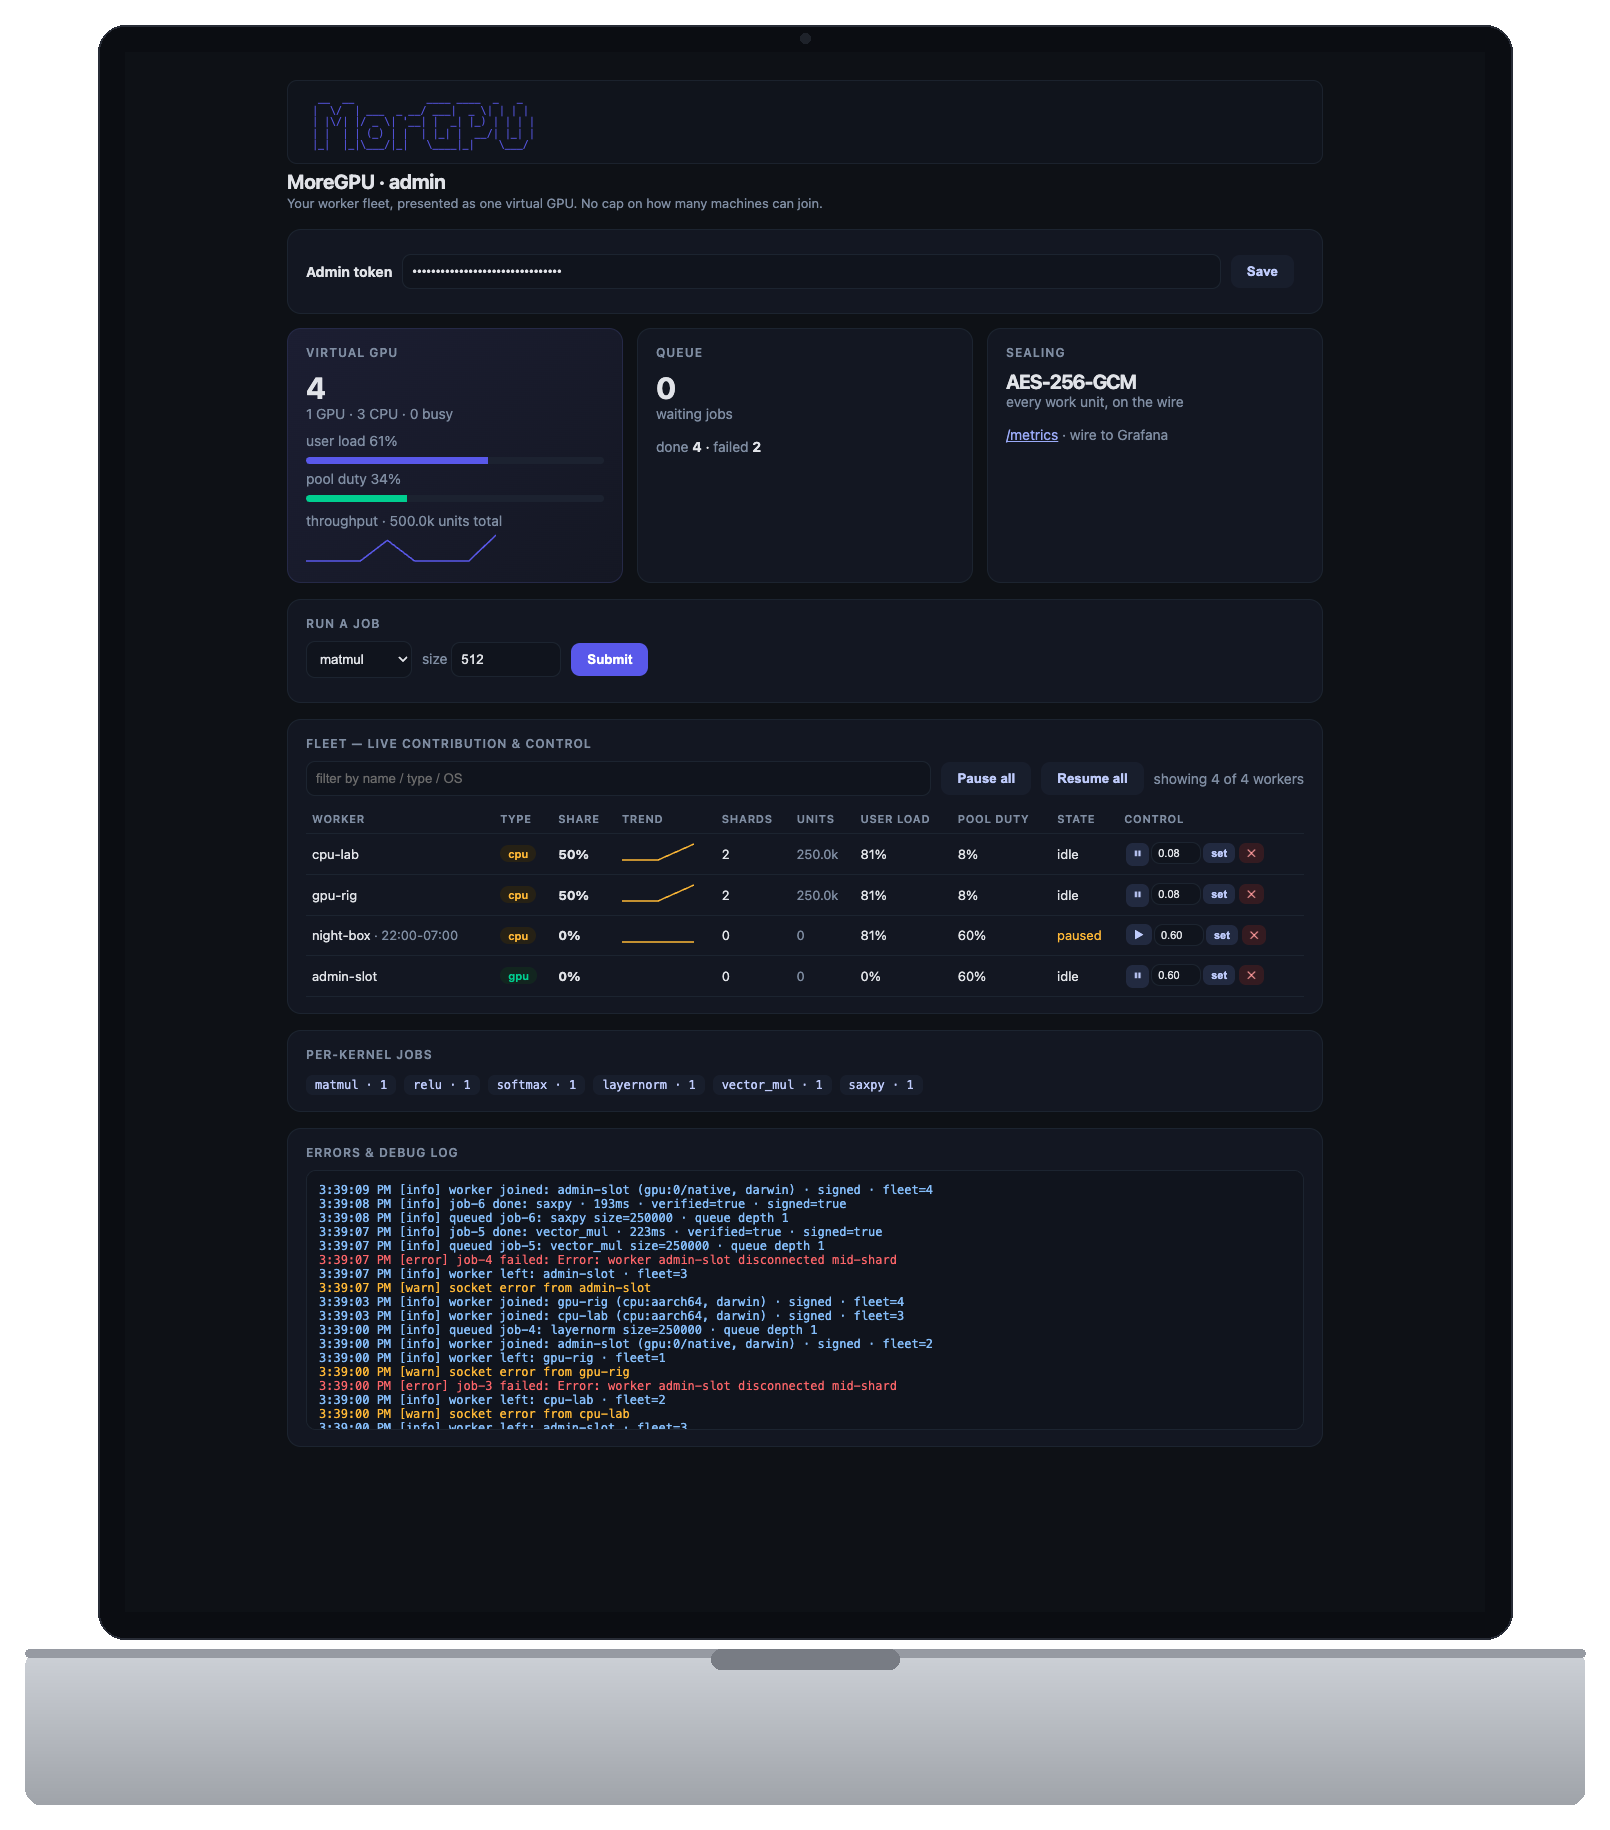
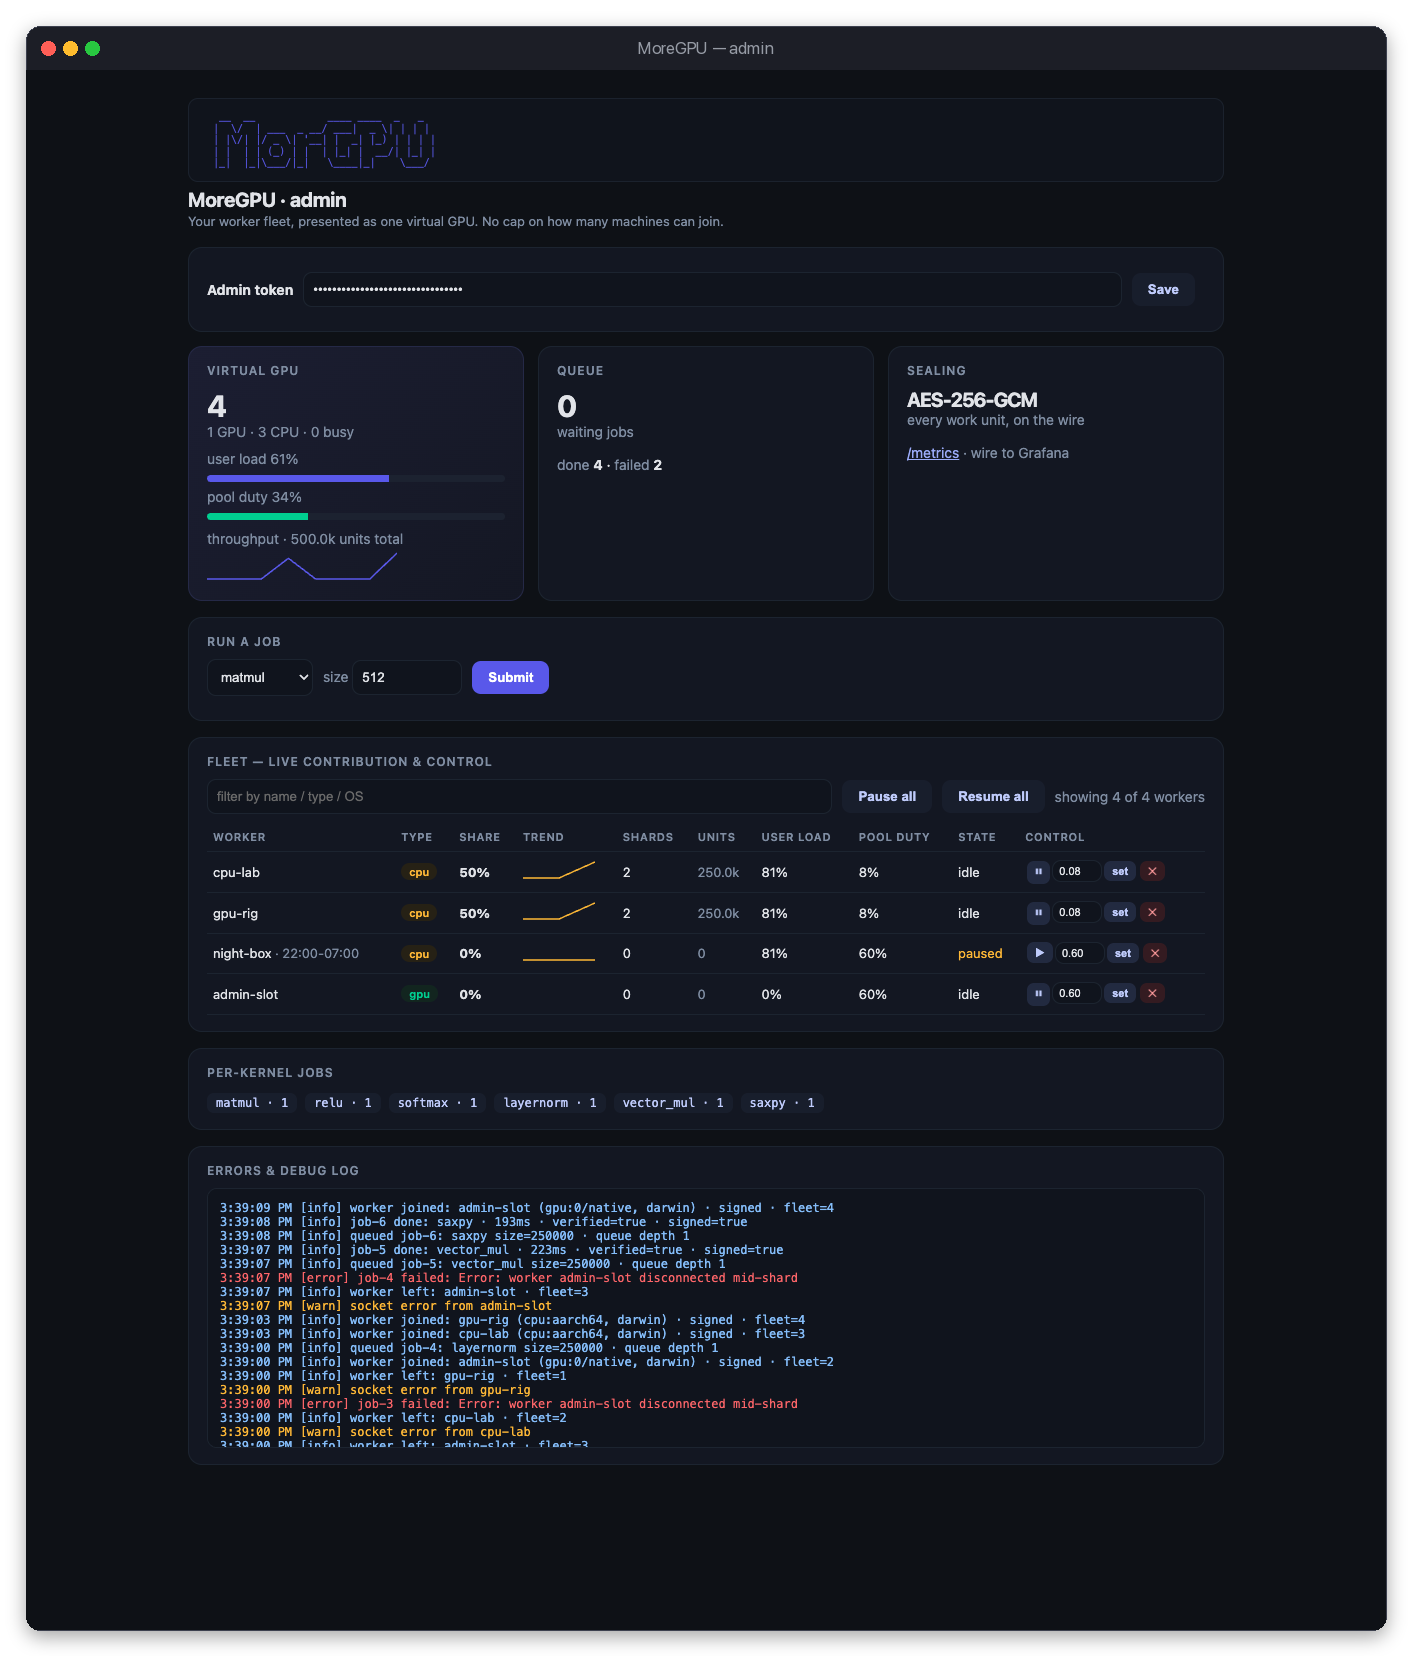
release: v0.3.0 — GPU-wide kernels, SCOUT CLI, M8, macOS frames, Homebrew cask
- Bump client SDKs + CLI to 0.3.0.
- Homebrew cask (Casks/moregpu.rb) installing the CLI (depends on Deno).
- Capability matrix: all kernels now run on the GPU on a GPU worker; honest NOTE on
  why CUDA / fp16 / full-LLM inference-training would need a separate native worker
  type (not built) — no dishonest "CUDA support" claim.
- README screenshots reframed as macOS windows (traffic lights + title bar); install
  points at v0.3.0 release artifacts + `brew install --cask`, with an honest note that
  PyPI/npm publishing needs registry tokens not available in this environment.

Verified: deno check clean; 113 unit tests; CLI + cask syntax OK.

diff --git a/docs/index.html b/docs/index.html
@@ -72,8 +72,8 @@ th{color:var(--mut);font-weight:600}
 <div class="card">
 An admin runs a coordinator. Worker machines join with a one-liner over an <b>outbound</b> WebSocket and
 contribute GPU or CPU compute. Jobs are sharded across the fleet, each work unit is <b>AES-256-GCM sealed</b>
-on the wire, computed on each worker (<code>matmul</code> on the GPU via WebGPU → Metal/Vulkan/D3D12; the
-memory-bound elementwise and row-wise kernels on the CPU), then pooled, <b>verified</b> against a CPU
+on the wire, computed on each worker (on a GPU worker every kernel — tiled matmul, elementwise, softmax/layernorm —
+runs on the GPU via WebGPU → Metal/Vulkan/D3D12; CPU otherwise), then pooled, <b>verified</b> against a CPU
 reference, and returned with an <b>Ed25519 signature</b> from the worker that produced it. The
 whole fleet is presented as <b>one virtual GPU</b> with a Slurm-like job queue. It is an honest, verified
 <b>fp32</b> linear-algebra service — not a CUDA replacement or a black-box model runner.
@@ -138,8 +138,8 @@ Every pool mints its <b>own</b> secrets on first run and writes them to <code>.m
 <table>
 <tr><th>Workload</th><th></th><th>How / why</th></tr>
 <tr><td>Dense fp32 matmul / GEMM</td><td class="y">✅</td><td>Workgroup-tiled WGSL GEMM <b>on the GPU</b> (shared-memory tiling), verified. fp32 only, <b>no tensor cores</b> → correct but slower than cuBLAS.</td></tr>
-<tr><td>Elementwise + activations</td><td class="y">✅</td><td>add / mul / scale / saxpy / relu / <b>gelu</b> — memory-bound, so they run on the worker <b>CPU</b> even on a GPU machine.</td></tr>
-<tr><td>Softmax / LayerNorm</td><td class="y">✅</td><td>Dedicated row-wise kernels (on the worker <b>CPU</b>), match a CPU reference to ~1e-8.</td></tr>
+<tr><td>Elementwise + activations</td><td class="y">✅</td><td>add / mul / scale / saxpy / relu / <b>gelu</b> — WGSL kernels that run <b>on the GPU</b> on a GPU worker (CPU otherwise). Memory-bound, so the GPU mainly relieves the CPU.</td></tr>
+<tr><td>Softmax / LayerNorm</td><td class="y">✅</td><td>Row-wise WGSL reductions <b>on the GPU</b> on a GPU worker (CPU otherwise), match a CPU reference to ~1e-8.</td></tr>
 <tr><td>Scaled dot-product attention (1 head)</td><td class="p">🧩</td><td><code>matmul(Q,Kᵀ)→scale→softmax→matmul(·,V)</code> — verified. Not flash-attention; no KV cache.</td></tr>
 <tr><td>Transformer block / small MLP inference</td><td class="p">🧩</td><td>Compose LN → matmuls → attention → FFN from the SDK. Weights per-request, no residency.</td></tr>
 <tr><td>Large / out-of-core matmul</td><td class="pa">🟡</td><td>Sharded across workers + pooled — bounded by WGSL cores + WAN, not NVLink.</td></tr>

diff --git a/Casks/moregpu.rb b/Casks/moregpu.rb
@@ -1,0 +1,19 @@
+cask "moregpu" do
+  version "0.3.0"
[1 lines of base64/hex data omitted]
+
+  url "https://github.com/ArioMoniri/moregpu/releases/download/v#{version}/moregpu"
+  name "MoreGPU"
+  desc "CLI for the MoreGPU native GPU compute pool (serve / join / control / monitor)"
+  homepage "https://github.com/ArioMoniri/moregpu"
+
+  depends_on formula: "deno"
+
+  binary "moregpu"
+
+  caveats <<~EOS
+    MoreGPU runs its coordinator and worker via Deno (installed as a dependency).
+    Run `moregpu` on its own for the interactive menu, or `moregpu serve --worker`
+    to start a pool that also lends this machine.
+  EOS
+end

diff --git a/README.md b/README.md
@@ -249,15 +249,16 @@ Install from the [**latest GitHub Release**](https://github.com/ArioMoniri/moreg
 
 ```sh
 # Python SDK (standard library only) — matmul, attention(), linear(), mlp(), reductions
-pip install https://github.com/ArioMoniri/moregpu/releases/latest/download/moregpu_client-0.2.0-py3-none-any.whl
+pip install https://github.com/ArioMoniri/moregpu/releases/latest/download/moregpu_client-0.3.0-py3-none-any.whl
 # TypeScript/JS SDK (Deno / Node / browser)
-npm install https://github.com/ArioMoniri/moregpu/releases/latest/download/moregpu-client-0.2.0.tgz
-# `moregpu` CLI (serve / join / isolate / stop / monitor)
+npm install https://github.com/ArioMoniri/moregpu/releases/latest/download/moregpu-client-0.3.0.tgz
+# `moregpu` CLI — Homebrew cask (installs Deno), or one curl:
+brew install --cask ArioMoniri/moregpu/moregpu
 curl -fsSL https://raw.githubusercontent.com/ArioMoniri/moregpu/main/scripts/moregpu -o /usr/local/bin/moregpu && chmod +x /usr/local/bin/moregpu
 ```
 
 > [!NOTE]
-> The SDKs are **not yet on PyPI / npmjs / a Homebrew tap** — publishing to those registries needs the maintainer's tokens. The Release artifacts above are the real, working install today; the maintainer publish steps are in [CONTRIBUTING.md](CONTRIBUTING.md#releasing--publishing). (Once on PyPI/npm this becomes `pip install moregpu-client` / `npm install @moregpu/client`.)
+> The SDKs are **not yet on PyPI / npmjs** — publishing there needs the maintainer's registry tokens (not available in this environment, so it can't be done from here). The Release artifacts above install today with no account; the exact one-command publish steps are in [CONTRIBUTING.md](CONTRIBUTING.md#releasing--publishing). Once on PyPI/npm this becomes `pip install moregpu-client` / `npm install @moregpu/client`.
 
 **JavaScript / TypeScript** ([`@moregpu/client`](packages/client), runs in Deno / Node / browsers):
 
@@ -338,8 +339,8 @@ MoreGPU is an honest, **verified fp32** linear-algebra service — not a CUDA re
 | Workload | | How / why |
 |---|---|---|
 | Dense fp32 matmul / GEMM | ✅ | **Workgroup-tiled WGSL GEMM on the GPU** (shared-memory tiling), verified. fp32 only, **no tensor cores** → correct but slower than cuBLAS. |
-| Elementwise + activations (add/mul/scale/saxpy/relu/**gelu**) | ✅ | First-class kernels; each op is its own pass. These are memory-bound, so they run on the worker's **CPU** (not the GPU) even on a GPU machine. |
-| Softmax / LayerNorm | ✅ | Dedicated row-wise kernels (run on the worker's **CPU**), match a CPU reference to ~1e-8. |
+| Elementwise + activations (add/mul/scale/saxpy/relu/**gelu**) | ✅ | First-class WGSL kernels — run **on the GPU** on a GPU worker (CPU otherwise). Memory-bound, so the GPU mainly relieves the CPU rather than adding raw speed. |
+| Softmax / LayerNorm | ✅ | Row-wise WGSL reductions (one workgroup per row) **on the GPU** on a GPU worker; CPU otherwise. Match a CPU reference to ~1e-8. |
 | Scaled dot-product attention (one head) | 🧩 | `matmul(Q,Kᵀ)→scale→softmax→matmul(·,V)` — **verified** to 2e-3 vs a float64 reference ([`verify_workloads.py`](examples/verify_workloads.py) check #7). One-call `pool.attention(Q,K,V,seq,d)` SDK helper. Not flash-attention; no KV cache. |
 | Transformer block / small MLP inference | 🧩 | Compose LN→matmuls→attention→FFN. You orchestrate the graph from the SDK; weights are per-request, no residency. |
 | Reductions (sum/mean/dot/norm) | 🧩 | Via GEMM tricks (`dot = (1×K)·(K×1)`, etc.); `pool.sum/mean/dot/norm` SDK helpers. Convenience, not throughput — each runs on one worker/one thread. |
@@ -350,10 +351,13 @@ MoreGPU is an honest, **verified fp32** linear-algebra service — not a CUDA re
 | Conv2d / CNNs | 🧩 | im2col on the host, then pooled matmul — runnable, CPU-checked demo in [`examples/conv2d_im2col.py`](examples/conv2d_im2col.py). Off-GPU unfold. |
 | CUDA/PTX kernels · Stable Diffusion · rendering (OptiX) · NVENC · fp16/int8 tensor cores | ❌ | WGSL backend, compute-only, fp32 — none of these paths exist. |
 
-**In one line:** it runs the small, correct primitive set it ships — matmul (on your real GPU via WGSL), plus elementwise, softmax and layernorm (on the worker's CPU) — with verified fp32 results, and lets you **compose** them into attention, transformer blocks, and small classifiers. It is not a drop-in for training, big-model inference, tensor-core speed, CUDA kernels, or graphics.
+**In one line:** every kernel it ships — tiled matmul, elementwise/activations, softmax and layernorm — runs **on your real GPU** (WGSL → Metal/Vulkan/D3D12) on a GPU worker, with verified fp32 results, and you **compose** them into attention, transformer blocks, and small classifiers. It is not a drop-in for training, big-model inference, tensor-core speed, CUDA kernels, or graphics.
 
 > [!NOTE]
-> **What actually runs on the GPU:** `matmul` — the compute-bound workhorse — executes on each worker's GPU (WGSL → Metal/Vulkan/D3D12). The elementwise and row-wise kernels are memory-bound and run on the worker's CPU. A CPU-only worker runs everything on CPU. All paths return the same verified fp32 results.
+> **Why not CUDA / fp16 / full LLMs?** MoreGPU's backend is **WebGPU (WGSL)** — the portable path that runs the same kernels on NVIDIA, AMD, Apple, and Intel GPUs. WebGPU is fp32 compute-only: no tensor cores, no fp16/int8, no CUDA/PTX, and no autograd. Full-model inference and training would need a **separate native CUDA/cuBLAS worker type** (NVIDIA-only, fp16 + tensor cores + a real autograd/KV-cache stack) — a large, honest roadmap item, **not built**. What ships today is a correct, verified fp32 primitive set you can compose; it will not masquerade as a CUDA/training platform it isn't.
+
+> [!NOTE]
+> **What runs on the GPU:** on a GPU worker, **all** kernels execute on-device (WGSL → Metal/Vulkan/D3D12) — tiled matmul, elementwise/activations, and softmax/layernorm reductions. A CPU-only worker runs the identical kernels on the CPU. Either way the coordinator cross-checks the pooled result against a CPU reference, so every path returns the same verified fp32 output.
 
 ## Authorized use only
 

diff --git a/CHANGELOG.md b/CHANGELOG.md
@@ -7,6 +7,29 @@ and this project adheres to [Semantic Versioning](https://semver.org/spec/v2.0.0
 
 ## [Unreleased]
 
+## [0.3.0] - 2026-07-25
+
+### Added
+
+- **All kernels on the GPU** — a GPU worker now runs elementwise (relu/scale/gelu/
+  add/mul/saxpy) and row-wise softmax/layernorm as WGSL kernels on-device, not just
+  matmul. CPU-only workers run the identical kernels; every result is still verified
+  against a CPU reference.
+- **SCOUT-style CLI** — `moregpu` with no arguments opens an interactive menu with a
+  gradient ANSI-Shadow wordmark and a sectioned Pool/Fleet/Service layout; the same
+  wordmark now prints in the server wizard.
+- **Homebrew cask** (`Casks/moregpu.rb`) installing the CLI (depends on Deno).
+
+### Changed
+
+- **Shard reassignment + concurrent jobs (M8)** — a failed/timed-out shard is retried
+  on other active workers instead of failing the job; workers that fail repeatedly are
+  auto-paused; the queue runs up to `MOREGPU_MAX_CONCURRENT_JOBS` (default 4) at once.
+  Default shard timeout 120s → 60s.
+- README screenshots reframed as macOS windows; capability matrix updated (all kernels
+  on the GPU) with an honest note on why CUDA / fp16 / full-LLM would need a separate
+  native worker type (not built).
+
 ## [0.2.0] - 2026-07-25
 
 ### Added
